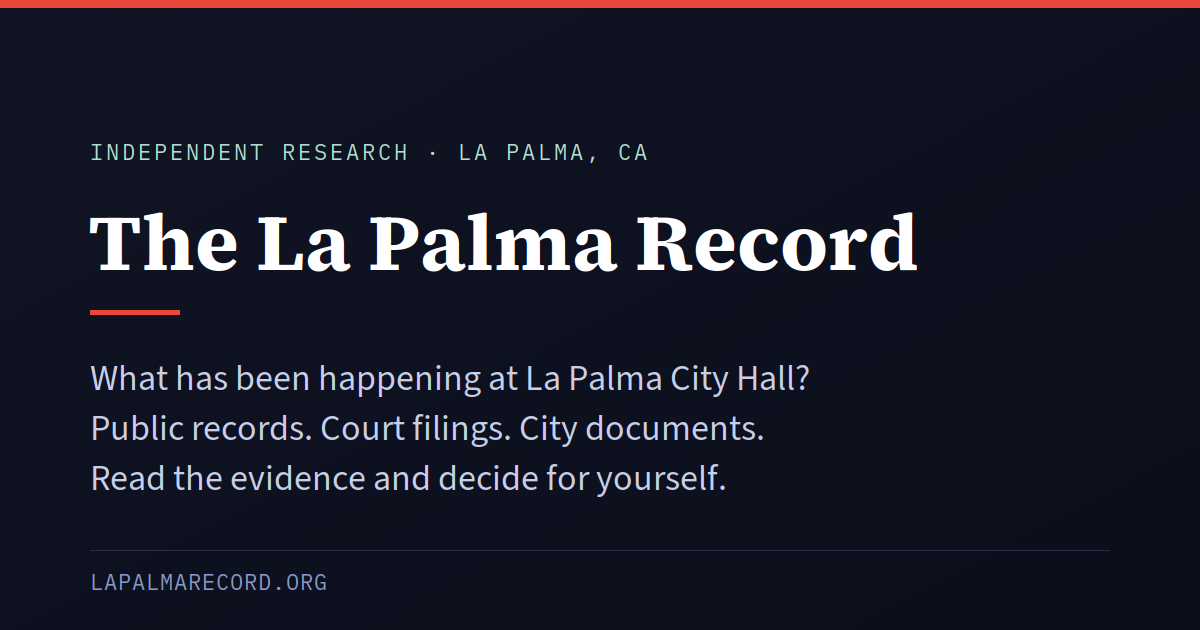
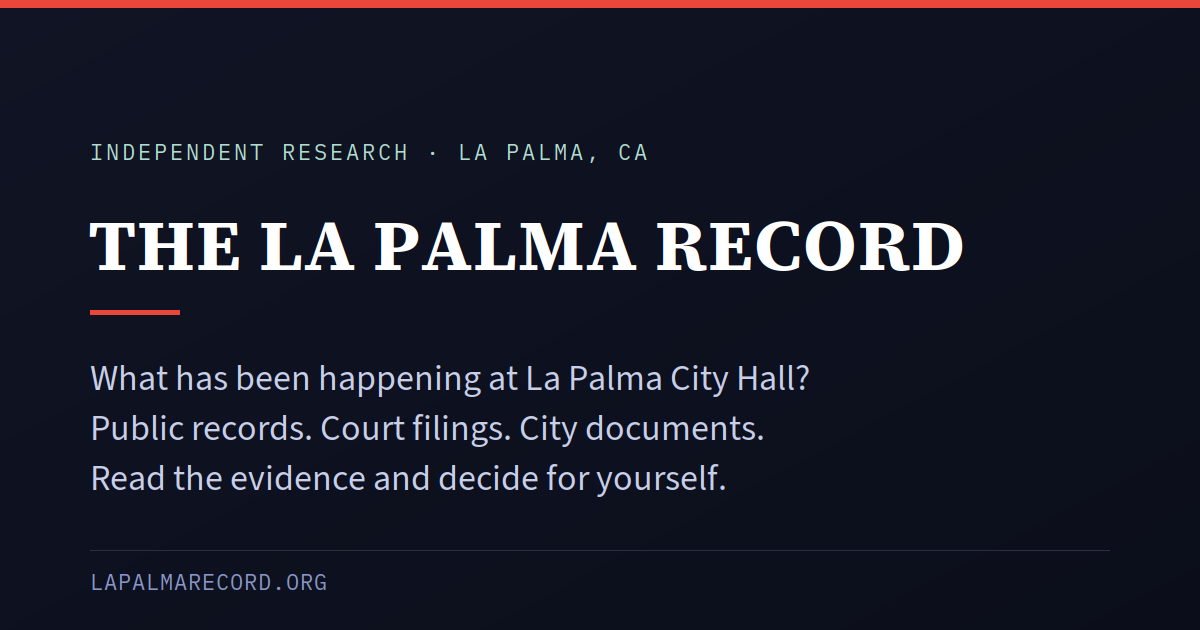
Add files via upload

Changed region(s): [[0.0617, 0.3317, 0.8017, 0.4524]]

diff --git a/style.css b/style.css
@@ -1,14 +1,14 @@
 :root{
-    --navy: #101424;
+    --navy: #14385C;
     --navy-deep: #0B0E1A;
-    --palm: #4B5EA6;
+    --palm: #2B6E82;
     --palm-light: #AFDDD0;
     --parchment: #F3FAF8;
     --paper: #FFFFFF;
     --ink: #101424;
     --ink-soft: rgba(16,20,36,0.66);
-    --gold: #EA463A;
-    --gold-deep: #C23026;
+    --gold: #C68A3D;
+    --gold-deep: #9C6B26;
     --alert: #EA463A;
     --line: rgba(16,20,36,0.14);
   }
@@ -40,7 +40,7 @@
   header.masthead{
     position:relative;
     background:
-      linear-gradient(160deg, rgba(16,20,36,.62) 0%, rgba(11,14,26,.72) 100%),
+      linear-gradient(160deg, rgba(20,56,92,.62) 0%, rgba(11,14,26,.72) 100%),
       url('lapalma-cityhall.jpeg') center 80%/cover no-repeat;
     color:#fff;
     padding:34px 0 28px;
@@ -64,6 +64,8 @@
     max-width:none;
     white-space:nowrap;
     text-shadow:0 2px 10px rgba(0,0,0,.55);
+    text-transform:uppercase;
+    letter-spacing:.01em;
   }
   .subtitle{
     font-size:1.08rem;
@@ -921,8 +923,8 @@ details.tl-entry summary .tl-teaser{font-weight:600;font-size:0.95rem;color:var(
   margin:0 0 8px;
 }
 .tag-documented{background:var(--palm-light);color:var(--navy);}
-.tag-analysis{background:rgba(234,70,58,0.13);color:var(--gold-deep);}
-.tag-opinion{background:rgba(75,94,166,0.13);color:var(--palm);}
+.tag-analysis{background:rgba(198,138,61,0.13);color:var(--gold-deep);}
+.tag-opinion{background:rgba(43,110,130,0.13);color:var(--palm);}
 
 /* Documents callout */
 .docs-callout{

diff --git a/index.html b/index.html
@@ -37,7 +37,7 @@
 <header class="masthead">
   <div class="wrap">
     <h1 class="title">The La Palma Record</h1>
-    <p class="subtitle">What has been happening at La Palma City Hall?<br>Public records. Court filings. City documents. News articles. Read the evidence and decide for yourself.</p>
+    <p class="subtitle">What has been happening at La Palma City Hall?<br>Public records. Court filings. City documents. News articles<br>Read the evidence and decide for yourself.</p>
   </div>
 </header>
 
